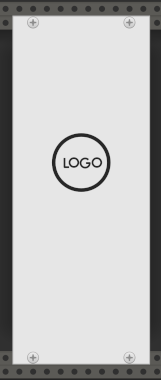
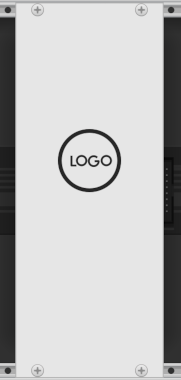
Update docs, add release notes

Changed region(s): [[0.0, 0.0, 1.0, 1.0], [0.3106, 0.3184, 0.7143, 0.5211]]

diff --git a/README.md b/README.md
@@ -2,9 +2,12 @@
 
 [Repo](https://github.com/Paul-Dempsey/GenericBlank)
 
-Generic Blank is a template for a VCV Rack blank panel plugin. This is a plugin that contains only a blank panel module. It looks like this:
+Generic Blank is a template for a VCV Rack blank panel plugin.
+This plugin contains only a blank panel module.
 
-![Preview of the generic blank module](doc/Blank.png)
+It looks like this, in the default light panel, and when the Rack "Prefer dark panels" setting is enabled:
+
+![Preview of the Generic Blank module (light)](doc/Blank.png) ![Preview of the Generic Blank module (dark)](doc/Blank-dark.png)
 
 This module doesn't demonstrate much more than getting a plugin up and running.
 It doesn't provide any inputs, outputs, presets, extenders, or do any Digital Signal Processing (DSP).
@@ -13,9 +16,11 @@ If you want something more than just a blank plugin, then you can follow the Rac
 or clone any existing module that is open source.
 [Fundamental](https://github.com/VCVRack/Fundamental) is a good place to start.
 
+[Release notes](doc/release-notes.md)
+
 > **NOTE**
 >
-> This template is provided AS-IS, without support, etc. Terms are in the [LICENSE](LICENSE) file. I built and ran this on Windows 11 and Rack 2.3. If there are issues, please open an issue in this repo. You are responsible for any plugin you make based on this template. If you need more help with building and coding a Rack plugin, [VCV Community - Development ](https://community.vcvrack.com/c/development) or the VCV Rack Discord are friendly places to go.
+> This template is provided AS-IS. Terms are in the [LICENSE](LICENSE) file. I built and ran this on Windows 11 and Rack 2.4. If there are issues, please open an issue in this repo. You are responsible for any plugin you make based on this template. If you need more help with building and coding a Rack plugin, [VCV Community - Development ](https://community.vcvrack.com/c/development) or the VCV Rack Discord are friendly places to go.
 
 Before you can build this plugin, you must set up a Rack development environment following the guide at [VCV Rack Plugin Development](https://vcvrack.com/manual/PluginDevelopmentTutorial).
 
@@ -33,10 +38,10 @@ To make it your own:
 
    Now you're ready to build your plugin, run rack and see if it's working. If all is well, you can take the final step.
 
-3. Edit `res/Blank.svg` to give your blank module it's unique appearance. It's worthwhile reviewing the VCV Rack [Panel Guide](https://vcvrack.com/manual/Panel) for guidance on the design of the panel.
+3. Edit `res/Blank.svg` and `res/Blank-dark.svg` to give your blank module it's unique appearance. It's worthwhile reviewing the VCV Rack [Panel Guide](https://vcvrack.com/manual/Panel) for guidance on the design of the panel.
 
 If you want to publish your module to the library, see the information at the end of the [ Plugin Tutorial](https://vcvrack.com/manual/PluginDevelopmentTutorial).
 
 I hope this is useful to you. If you have questions or a suggestion, you can open an issue or dicsussion in Github, or post to the VCV Rack forum.
 
-:- Paul (aka pachde)
+:- Paul Dempsey (aka pachde)

diff --git a/doc/release-notes.md b/doc/release-notes.md
@@ -1,0 +1,9 @@
+# Generic Blank - Release notes
+
+## Version 2.1
+
+Add Rack 2.4 requirement and support for the "Prefer dark panels" option.
+
+## Version 2.0
+
+Initial release of Generic Blank.
